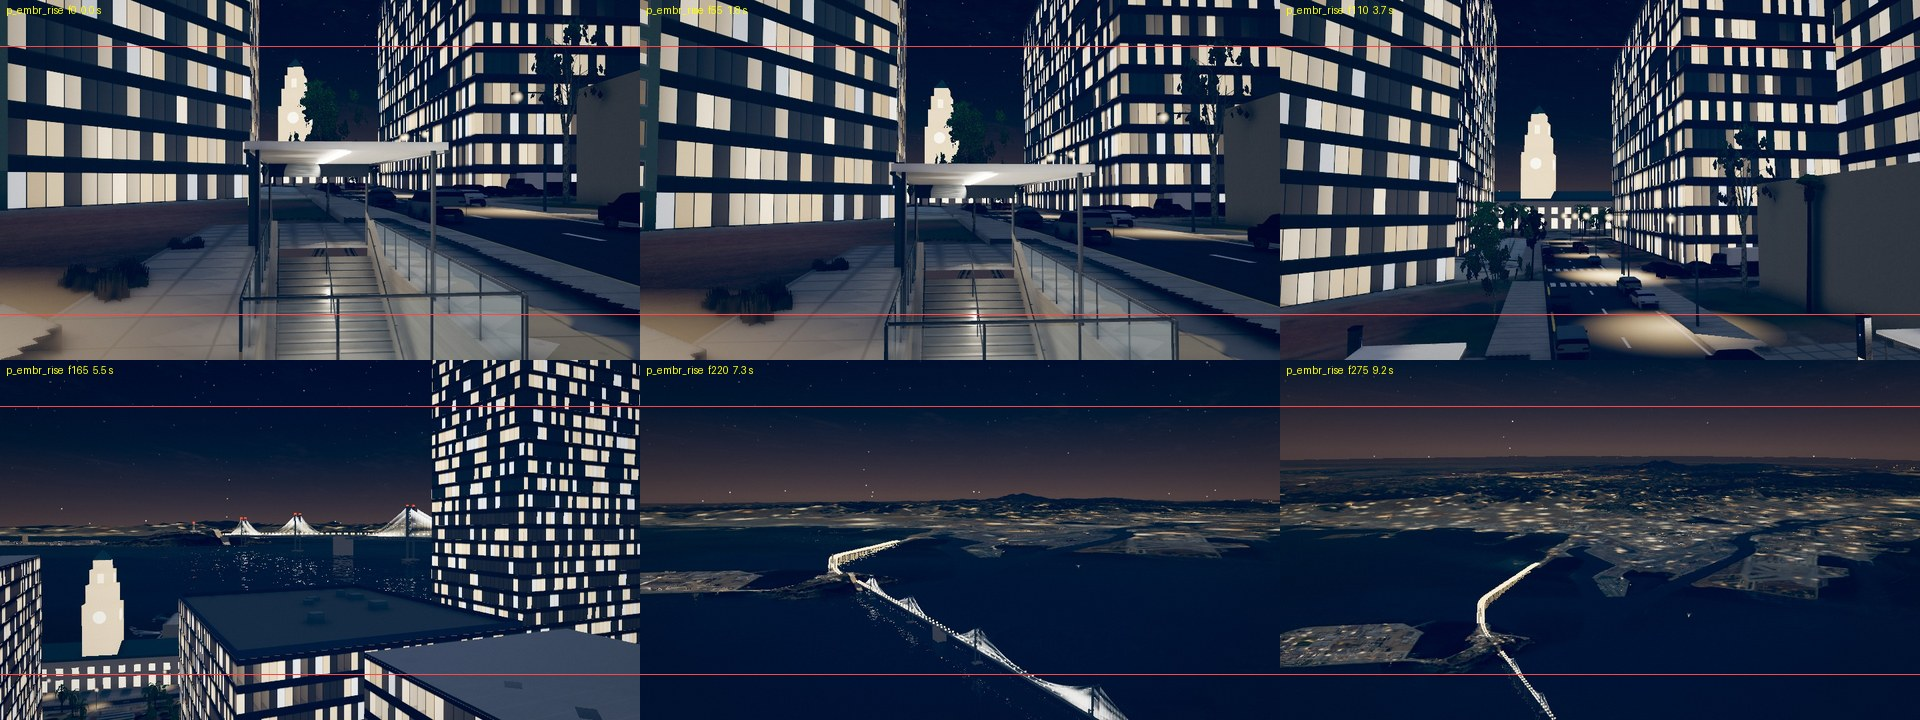
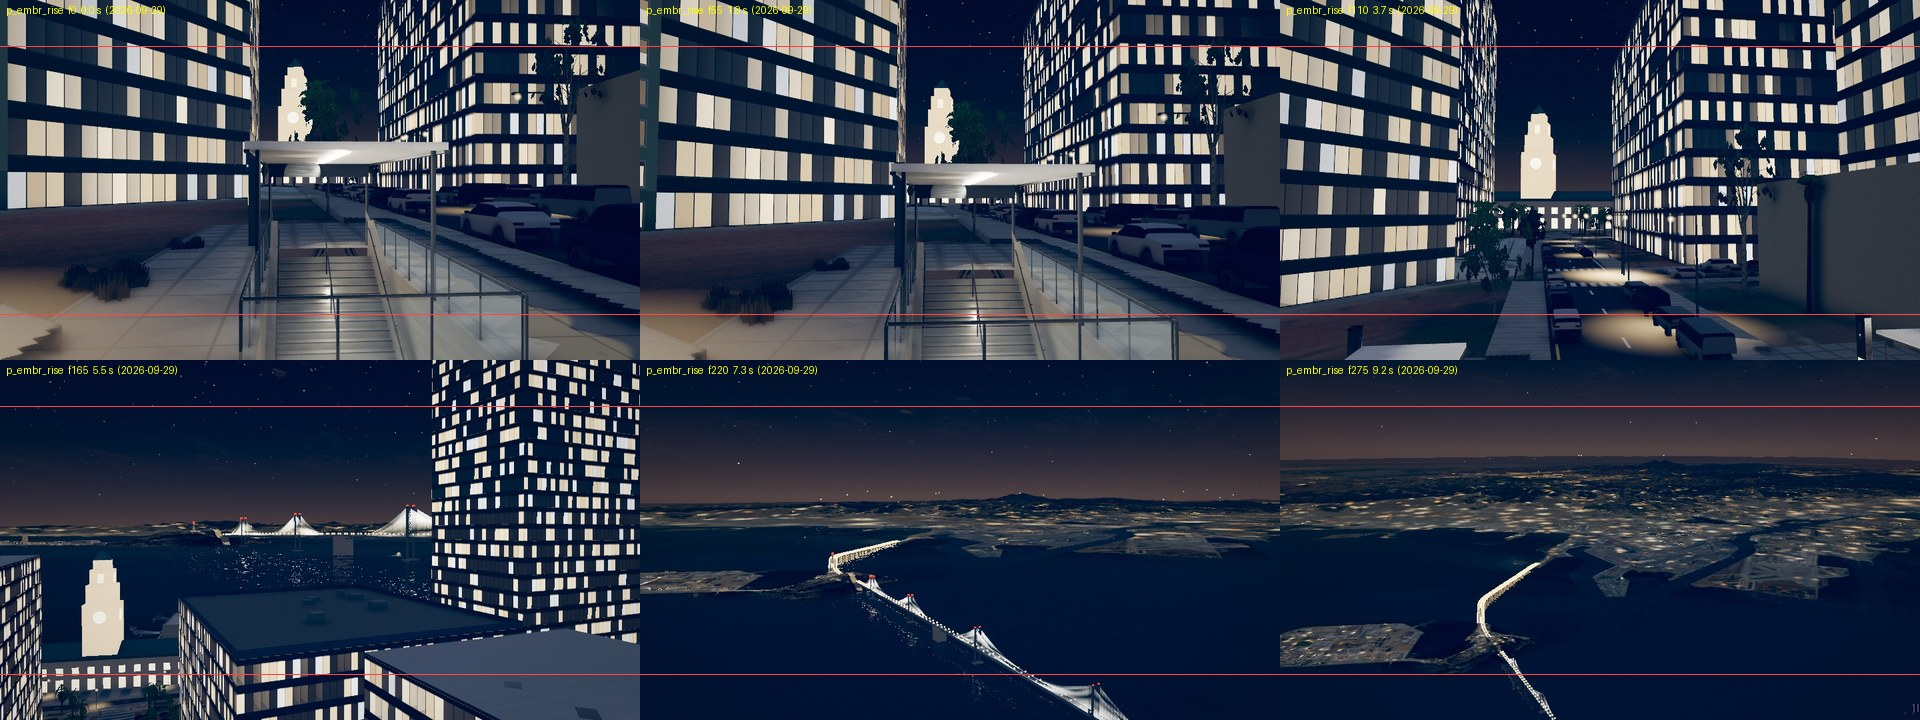
world (promo, lead review): the service day pinned in all four shots (SIM's mDay('2026-09-29') first thing in setup; tools/trailer/shots/_metro.mjs is an identical copy of SIM's, last changed in bart-sim 75649ea) and the clocks picked under it. P01 p_dawn_bay: ~100 mm (vertical fov 14) aimed so San 
Claude-Session: https://claude.ai/code/session_01R1nKudeV9L3TUCtxsMCPg9

diff --git a/notes/bart/world.md b/notes/bart/world.md
@@ -6,7 +6,7 @@ BART line; ground that meets the BART structures; world quality in the East Bay;
 
 ## Status
 
-**Updated 2026-09-26 16:45. M3 is LIVE (11:36) on the world: all world sets are published on both servers. M3.2 world items and the four promo shots are committed on bart-world (not deployed).**
+**Updated 2026-09-26 17:40. M3 is LIVE (11:36) on the world: all world sets are published on both servers. M3.2 world items and the four promo shots are committed on bart-world (not deployed).**
 
 | set / change | state |
 |---|---|
@@ -22,7 +22,8 @@ BART line; ground that meets the BART structures; world quality in the East Bay;
 | M3.2: night lights from the air, resolved (a world-stable lamp field instead of the averaged wash beyond ~2 m pixels) | bart-world 4d7e83f, accepted; `shots/world/night_aerials_*` |
 | M3.2: street lamps seen from above (the glare a small point, the pool a faint glow once the camera is well over it) | bart-world 32025b9; `shots/world/street_lamps_from_above_before_after.jpg` |
 | M3.2: no street lamp on cut ground (openings, trenches, platform cuts, track bed; stations' 'lamp' keep-out; late openings drop lamps in place: `Towns.relamp`), pools never below their lamp's footing, tilted with hills, faded at grazing angles | bart-world 21246e1; `shots/world/lamp_on_cut_ground_before_after.jpg` (P02's West Oakland portal) |
-| Promo shots P01 `p_dawn_bay`, P20 `p_night_flyover`, P26 `p_embr_rise`, P27 `p_bay_night` (modules in `tools/trailer/shots/`, helpers `_world.mjs`) | committed; 6-frame sheets in `shots/promo/<shot>.jpg` (960x540 previews, 2.39 guides) |
+| M3.3: street-lamp glare keeps its size in pixels whatever the lens (k = tan(fov/2) / tan(27.5 deg); pools stay in world space) | bart-world 16f4cb4, approved; `shots/world/lamp_glare_long_lens_before_after.jpg` (P05 at 135 mm) |
+| Promo shots P01 `p_dawn_bay` (+ `p_dawn_bay_blue`), P20 `p_night_flyover`, P26 `p_embr_rise`, P27 `p_bay_night` (modules in `tools/trailer/shots/`, helpers `_world.mjs`), service day pinned to 2026-09-29 | committed; 6-frame sheets in `shots/promo/<shot>.jpg` (960x540 previews, 2.39 guides) |
 
 **Backlog (post-M3, queued):**
 1. Night aerials (lead): the glow almost entirely from the street / road mask at L7-L9 (thin bright lines), blocks dark apart
@@ -38,16 +39,22 @@ BART line; ground that meets the BART structures; world quality in the East Bay;
    invisible JPEG tails (~8,600 files, extra bytes or a last MCU off by a few levels): no action unless wanted.
 7. Housekeeping once Velroi has everything: delete the staging folders (`data/raw/tiles/sr_l8_stage` 470 MB, `fix_*`).
 
-**Promo shots (world):** each finds its moment in the timetable of the day it runs, so a capture on any service day works.
-- P01 `p_dawn_bay` (06:15, 70 mm from 600 m over the bay by Treasure Island): San Francisco's lights and their reflections across the
-  still bay with the Bay Bridge's west span leading in, framed south-west so the setting full moon's glitter stays out.
-- P20 `p_night_flyover` (evening, found by `metroFramed`): a slow glide west-north-west over the Port side of West Oakland,
-  30 m north of the aerial: a train big enough to read in frame at every tap (headlights and lit windows coming out of
-  the Tube, one going the other way), the aerial leading to the portal and the Bay Bridge's lights beyond.
-- P26 `p_embr_rise` (19:26): from eye level at Embarcadero's A1 entrance on Market St, straight up past the towers and
-  the Ferry Building to 2 km over the bay: one move from the station door to the whole bay.
-- P27 `p_bay_night` (the busiest evening minute, `metroBusiest`): a 25 s orbit of the whole bay at night from 12 km with
-  the Bay Bridge at its centre.
+**Promo shots (world):** the service day is pinned in each (SIM's `mDay('2026-09-29')`, first thing in setup; `_metro.mjs`
+is an identical copy of SIM's, last changed in bart-sim 75649ea), and each finds its moment in that day's timetable, so the draft and
+the 4K capture see the same trains, sun and moon whatever day they run.
+- P01 `p_dawn_bay` (06:15) and `p_dawn_bay_blue` (06:42, civil dawn; same framing, the draft picks one): ~100 mm from
+  600 m over the bay by Treasure Island, past Yerba Buena (below the frame): San Francisco's skyline and its reflections
+  fill the band, the Bay Bridge's west span leading in from the left. The waning gibbous moon of the 29th is high in the
+  south-west, above the frame, its glitter well below it.
+- P20 `p_night_flyover` (evening, found by `metroFramed`): a slow glide west-north-west at ~85 m over the Port side of
+  West Oakland, ~80 m north of the aerial, ~75 mm tilted down 6.5 deg: the aerial the leading line to the Tube portal, a
+  train 280-480 m ahead in the lower-left third at every tap, the Bay Bridge's lights on the horizon inside the band,
+  the street lamps points (32025b9, 16f4cb4).
+- P26 `p_embr_rise` (19:21:30 on the 29th = the sun of 19:26 on the 26th, the approved light): from eye level at
+  Embarcadero's A1 entrance on Market St, straight up past the towers and the Ferry Building to 2 km over the bay.
+- P27 `p_bay_night` (the busiest evening minute of the 29th, `metroBusiest`): a 25 s orbit of the whole bay at night
+  from 12 km with the Bay Bridge at its centre; smooth end to end (300 consecutive frames over the last 10 s: the
+  frame-to-frame change steady, easing out, no pops; the only local spikes are a beacon blinking at the frame edge).
 
 **M3 blocker fixed (bart-world ebd8fba ... 44c7379):** MetroGround no longer disposes Towns / Flora. Terrain re-filters its
 loaded height tiles in place; `Towns.refresh(rects)` rebuilds only the touched tiles keeping their meshes and photo
